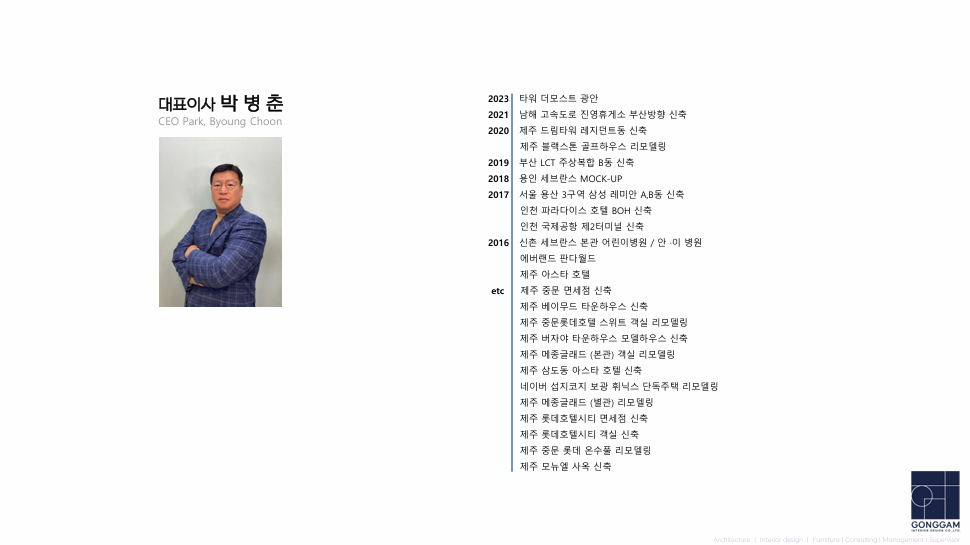
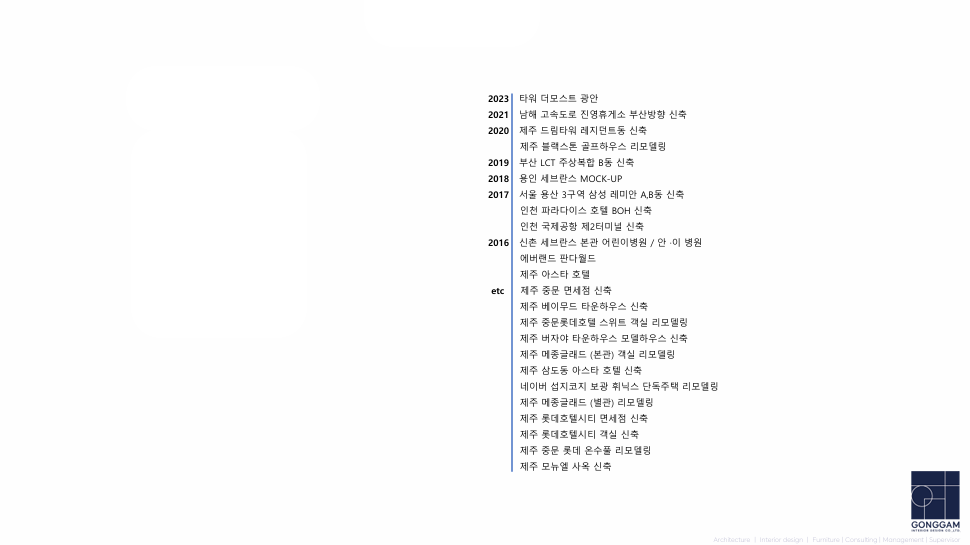
ourstory, ceo 수정

Changed region(s): [[0.1546, 0.156, 0.3093, 0.5615]]

diff --git a/ceo.html b/ceo.html
@@ -19,6 +19,8 @@
             max-width: 200%; /* 이미지가 부모 요소를 벗어나지 않도록 설정 */
             height: auto; /* 이미지 비율을 유지하면서 크기 조정 */
             display: block; /* inline-block 여백 문제를 방지 */
+            transform: scale(1.5);
+            margin: 0 auto;
         }
     </style>
 </head>
@@ -78,15 +80,22 @@
                 <header>
                     <h2>No Sidebar</h2>
                     <p>Lorem ipsum dolor sit amet consectetur et sed adipiscing elit
-                        dolor neque semper.</p>
+                        dolor neque semper.
+                    </p>
+
                 </header>
+                <br />
+                <br />
+                <br />
+                <br />
+                <img src="images/ceo1.png" alt="ceo1">
+                <img src="images/ceo2.png" alt="ceo2">
+                <img src="images/ceo3.png" alt="ceo3">
+                <img src="images/ceo4.png" alt="ceo4">
+                <img src="images/ceo5.png" alt="ceo5">
 
             </article>
-            <img src="images/ceo1.png" alt="ceo1">
-            <img src="images/ceo2.png" alt="ceo2">
-            <img src="images/ceo3.png" alt="ceo3">
-            <img src="images/ceo4.png" alt="ceo4">
-            <img src="images/ceo5.png" alt="ceo5">
+
         </div>
     </div>
 

diff --git a/ourStory.html b/ourStory.html
@@ -16,9 +16,11 @@
   <script src="https://dapi.kakao.com/v2/maps/sdk.js?appkey=80d6fac198542c9021cd4229a30df6b2"></script>
   <style>
     img {
-      max-width: 100%; /* 이미지가 부모 요소를 벗어나지 않도록 설정 */
+      max-width: 200%; /* 이미지가 부모 요소를 벗어나지 않도록 설정 */
       height: auto; /* 이미지 비율을 유지하면서 크기 조정 */
       display: block; /* inline-block 여백 문제를 방지 */
+      transform: scale(1.5);
+      margin: 0 auto;
     }
   </style>
 </head>
@@ -71,7 +73,7 @@
 
   <!-- Main -->
   <div class="wrapper">
-    <div class="container" id="main">
+    <div class="container2" id="main">
 
       <!-- Content -->
       <article id="content">
@@ -80,10 +82,14 @@
           <p>Lorem ipsum dolor sit amet consectetur et sed adipiscing elit
             dolor neque semper.</p>
         </header>
+      <br />
+      <br />
 
       </article>
-      <img src="images/our1.png" alt="our1">
       <img src="images/our2.png" alt="our2">
+      <br />
+      <br />
+      <img src="images/our1.png" alt="our1">
     </div>
   </div>
 

diff --git a/assets/css/main.css b/assets/css/main.css
@@ -7,6 +7,15 @@
 	Free for personal and commercial use under the CCA 3.0 license (html5up.net/license)
 */
 
+#main.container2 {
+	margin: 0 auto; /* 모든 방향에서 공백 제거 */
+	padding: 0; /* 모든 방향에서 내부 여백 제거 */
+	width: 100%; /* 컨테이너를 화면 너비에 맞춤 */
+	box-sizing: border-box; /* 패딩과 보더 포함하여 너비 계산 */
+	text-align: center;
+}
+
+
 html, body, div, span, applet, object,
 iframe, h1, h2, h3, h4, h5, h6, p, blockquote,
 pre, a, abbr, acronym, address, big, cite,
